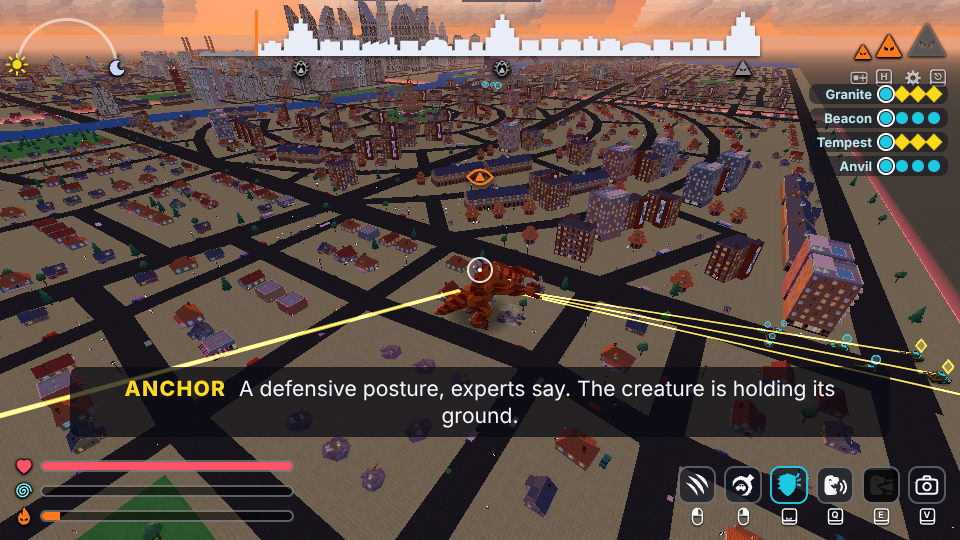
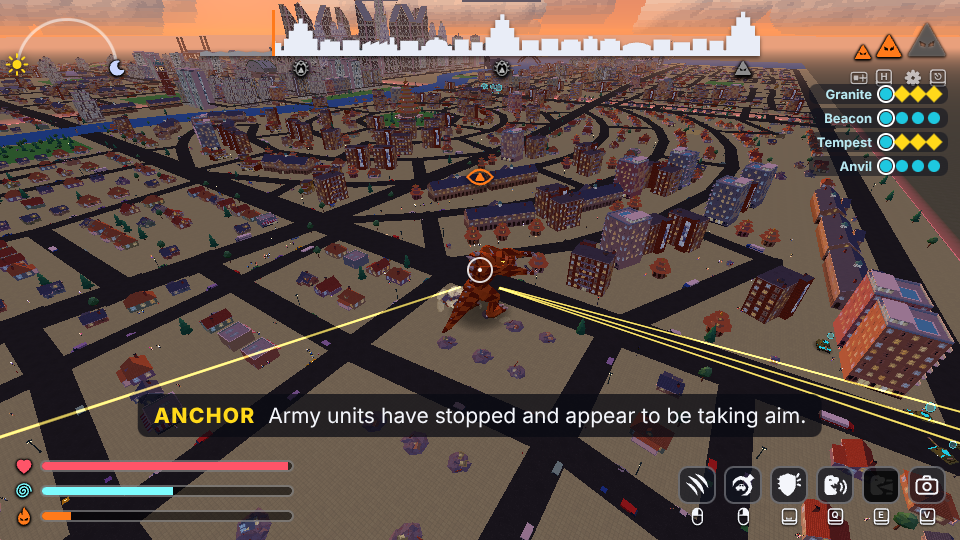
Client: picture-only controls card, sunset ground, loading progress
Claude-Session: https://claude.ai/code/session_01VjfEy3EmCEkVtKXyYyWoKb

diff --git a/docs/STATUS.md b/docs/STATUS.md
@@ -1292,10 +1292,17 @@ Scratch logs, scripts and every picture named here: `/tmp/mb-scratch/client-poli
 - `npm run check`: passed. `npm run build`: done.
 - `shots.mjs`: passed, zero console errors, all three stages on both sides; 100 to 121 draw
   calls, 387,000 to 426,000 triangles.
-- `smoke.mjs` and `scripted.mjs`: see 12.5.
+- `smoke.mjs`: passed. Five pages, zero console errors and zero warnings, stage 3 reached,
+  every page predicting; at most 125 draw calls and 453,000 triangles.
+- `scripted.mjs`: the human session 21 of 21 confirmed by the server. The kaiju session
+  failed one hold in each of its first two runs (eat in the first, brace in the second; each
+  passed in the other run) and passed 16 of 16 on the third, all with zero console errors.
+  The machine was loaded (four cores shared with the art work); nothing in this task touches
+  the kaiju's buttons, but the flakiness is reported, not explained.
 - Pictures for the owner: `docs/progress/controls-squad.png`, `docs/progress/controls-kaiju.png`
   (the card in a match, keyboard and mouse) and a new `docs/progress/city-wrecked.png` (sunset,
-  stage 2, from above the kaiju as before). Also checked by eye: the card with controller
+  stage 2, from above the kaiju as before), all taken from the build that includes the art
+  polish round's new ground textures and icons. Also checked by eye: the card with controller
   glyphs, at 1366 x 768, in the lobby (both roles) and on the briefing screen against a real
   server.
 
